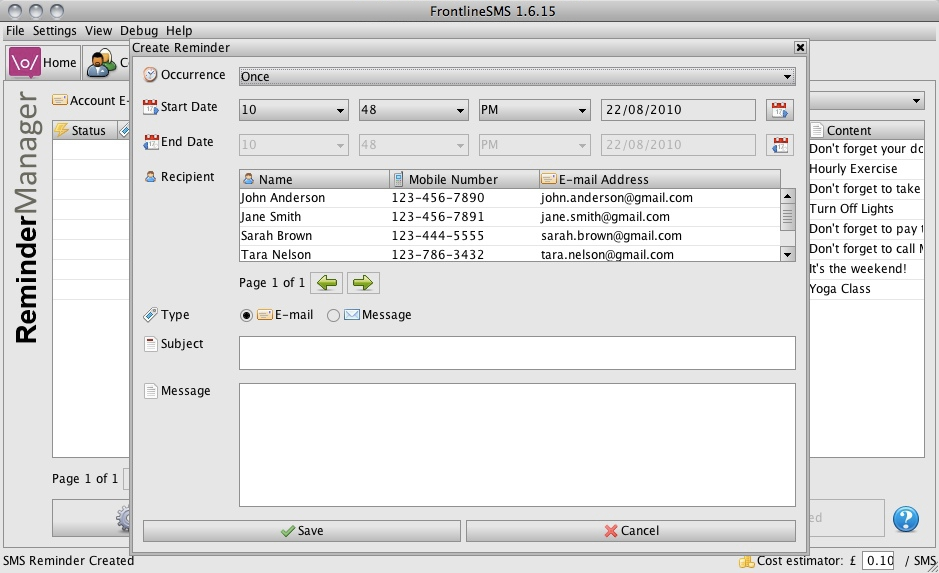
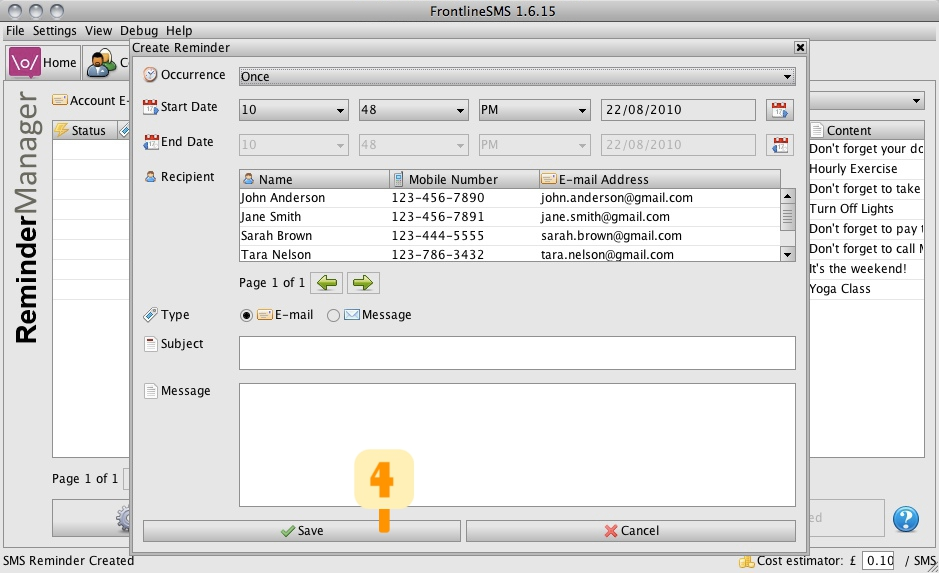
Updated help page Prepared for release 1.6.16.1

Changed region(s): [[0.3706, 0.7714, 0.4633, 0.9494]]

diff --git a/src/assemble/resources/package/help/reminders.htm b/src/assemble/resources/package/help/reminders.htm
@@ -19,11 +19,12 @@
 				Reminders offer a powerful way to schedule email or SMS notifications to recipients with a specific date range and occurrence. 
 				Reminders can be useful for sending a one time notification, for example for a patient on the day before their doctor's appointment.
 				Alternatively a recurring reminder can be sent for a specific date range and occurrence, for example a patient notication to take their medication at the same time each day for one week.
+				All the reminders you will create will appear in the list <span class="reference">1</span>.
 			</h3>
 			
 			<h2>Account E-Mail</h2>
 			<h3>
-				Before you can send an e-mail reminder, you must first specify the sending e-mail account from the <span class="highlight">Account E-mail</span> dropdown.
+				Before you can send an e-mail reminder, you must first specify the sending e-mail account from the <span class="highlight">Account E-mail</span> dropdown <span class="reference">2</span>.
 				<span class="note">If the <span class="highlight">Account E-mail</span> dropdown is empty, you'll need to first add an e-mail account via the <span class="highlight">Edit</span> > <span class="highlight">E-mail Settings</span> menu.</span>
 			</h3>
 			
@@ -51,7 +52,7 @@
 			
 			<h2>How do I create a reminder?</h2>
 			<h3>
-				You can create a reminder by clicking the <span class="highlight">New</span> button, which will display the reminder dialog.
+				You can create a reminder by clicking the <span class="highlight">New</span> button <span class="reference">3</span>, which will display the reminder dialog.
 				<ul>
 					<li><span class="highlight">Occurrence</span> - the occurrence type for the reminder</li>
 					<li><span class="highlight">Start Date</span> - the first time the reminder will be sent</li>
@@ -61,7 +62,7 @@
 					<li><span class="highlight">Subject</span> - the reminder subject which is only used for E-mail</li>
 					<li><span class="highlight">Message</span> - the reminder message used for both E-mail and SMS<strong></strong></li>
 				</ul>
-				Once you have finished entering the reminder information, click <span class="highlight">Save</span> button to create your reminder or the
+				Once you have finished entering the reminder information, click <span class="highlight">Save</span> button <span class="reference">4</span> to create your reminder or the
 				<span class="highlight">Cancel</span> button to discard your values.<br/><br/>
 				<img border="0" src="img/reminders_new.jpg" vspace="5">
 			</h3>
@@ -70,14 +71,14 @@
 			<h3>
 				You can edit an existing reminder by first selecting the reminder from the list and then clicking <span class="highlight">Edit</span> button.
 				Optionally, you can double-click a reminder to bring up the edit reminder dialog. 
-				Once you have edited the reminder, click <span class="highlight">Save</span> button to accept your changes or the
+				Once you have edited the reminder, click <span class="highlight">Save</span> button <span class="reference">4</span> to accept your changes or the
 				<span class="highlight">Cancel</span> button to discard your changes.<br/><br/>
 				<img border="0" src="img/reminders_edit.jpg" vspace="5">
 			</h3>
 			
 			<h2>How do I delete a reminder?</h2>
 			<h3>
-				You can delete a reminder by first selecting a reminder from the list and then clicking <span class="highlight">Delete</span> button. 
+				You can delete a reminder by first selecting a reminder from the list and then clicking <span class="highlight">Delete</span> button <span class="reference">5</span>. 
 				Note, you will be prompted with a confirmation dialog before the reminder is actually deleted.<br/><br/>
 				<img border="0" src="img/reminders_delete.jpg" vspace="5">
 			</h3>

diff --git a/src/assemble/resources/package/help/home.htm b/src/assemble/resources/package/help/home.htm
@@ -41,7 +41,7 @@ A:hover {text-decoration: underline; }
       </font><font face="Arial" size="5">Home</font></b><p>
       <i><font face="Arial" size="2" color="#666666">Home is your dashboard and allows you an 'at-a-glance' view of your FrontlineSMS system and access to &quot;Quick Send&quot; functionality</font></i></p>
       <p>
-      <img border="0" src="img/home.jpg" vspace="10" width="950" height="684"></p>
+      <img border="0" src="img/home.png" vspace="10" width="950" height="684"></p>
       <p><b><font face="Arial" color="#333333">What features are available on 
       the Home screen?</font></b></p>
       <p><b><font face="Arial" size="2" color="#336699">Language support</font></b></p>

diff --git a/src/assemble/resources/package/help/help-menu.htm b/src/assemble/resources/package/help/help-menu.htm
@@ -73,7 +73,13 @@
 				<font color="#808080" face="Verdana" size="1">Last edited: August, 2010</font>
 			</div>
 			
-			<a href="../"><h6>Let me choose another help version</h6></a>
+			<script language="javascript">
+				<!--
+				/* Include link to help index if we're on the help.frontlinesms.com domain */
+				if(document.domain.indexOf('help.frontlinesms.com') != -1)
+					document.write('<a href="../"><h6>Let me choose another help version</h6></a>');
+				-->
+			</script>
 		</div>
 	</body>
 </html>
